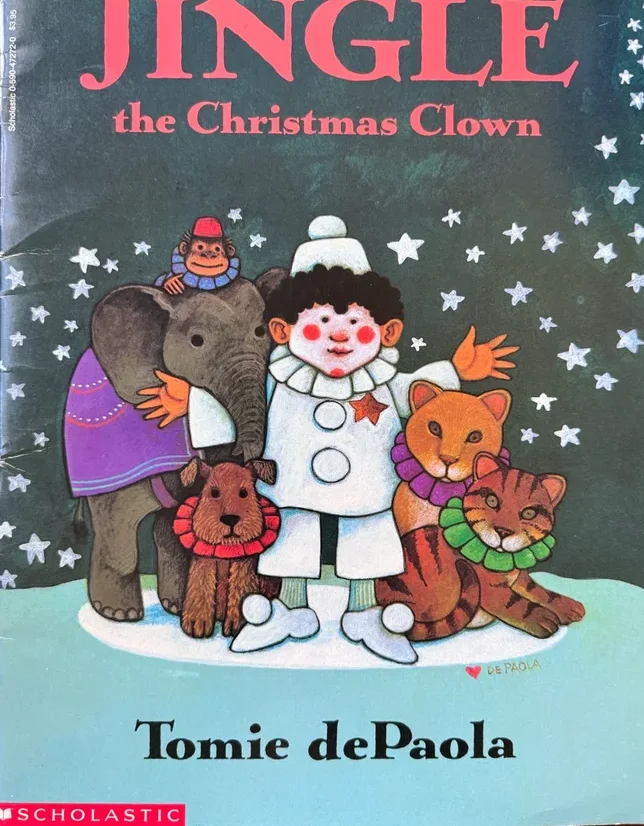
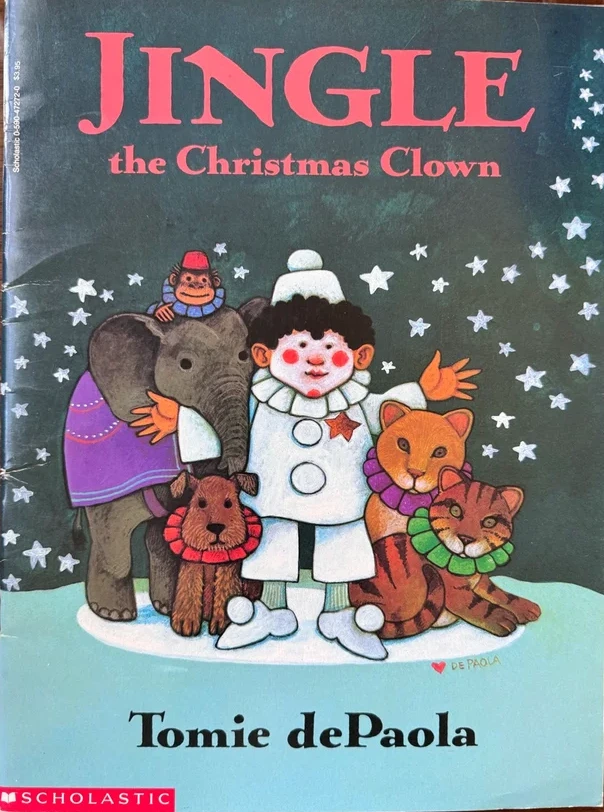
fix(covers): Uncrop 6 covers, level Jolly Old Santa, restore Annual Vol 41, and pair Santa Mouse books

diff --git a/src/App.jsx b/src/App.jsx
@@ -66,7 +66,7 @@ const INITIAL_BOOKS = [
     title: 'The Night Before Christmas', 
     author: 'Clement C. Moore', 
     category: 'story',
-    cover: '/covers/the-night-before-christmas.webp?v=5',
+    cover: '/covers/the-night-before-christmas.webp?v=7',
     notes: 'Illustrations by Tom Browning • Read every Christmas Eve',
     pages: [] 
   },
@@ -75,7 +75,7 @@ const INITIAL_BOOKS = [
     title: 'Chickadees In December', 
     author: 'Bill O. Smith', 
     category: 'story',
-    cover: '/covers/chickadees-in-december.webp?v=5',
+    cover: '/covers/chickadees-in-december.webp?v=7',
     notes: 'Illustrated by Charles R. Murphy • Heartwarming winter story',
     pages: [] 
   },
@@ -102,7 +102,7 @@ const INITIAL_BOOKS = [
     title: 'The Very First Christmas', 
     author: "The Beginner's Bible", 
     category: 'story',
-    cover: '/covers/the-very-first-christmas.webp?v=5',
+    cover: '/covers/the-very-first-christmas.webp?v=7',
     notes: 'The Nativity story for young readers • Baby Jesus born in Bethlehem',
     pages: [] 
   },
@@ -320,7 +320,7 @@ const INITIAL_BOOKS = [
     title: 'Christmas in the Manger',
     author: 'Nola Buck',
     category: 'story',
-    cover: '/covers/christmas-in-the-manger.webp?v=5',
+    cover: '/covers/christmas-in-the-manger.webp?v=7',
     notes: 'Illustrated by Felicia Bond • Gentle Nativity board book for little hands',
     pages: []
   },
@@ -543,12 +543,22 @@ const INITIAL_BOOKS = [
     pages: []
   },
   {
+    id: 'santa_mouse',
+    title: 'Santa Mouse',
+    author: 'Michael Brown',
+    category: 'story',
+    isMouseBook: true,
+    cover: '/covers/santa-mouse.webp?v=7',
+    notes: 'We have 2 copies of this book in our holiday collection! • Illustrated by Elfrieda De Witt',
+    pages: []
+  },
+  {
     id: 'santa_mouse_where_are_you',
     title: 'Santa Mouse, Where Are You?',
     author: 'Michael Brown',
     category: 'story',
     isMouseBook: true,
-    cover: '/covers/santa-mouse-where-are-you.webp?v=5',
+    cover: '/covers/santa-mouse-where-are-you.webp?v=7',
     notes: 'Illustrated by Elfrieda De Witt • Beloved sequel to Santa Mouse',
     pages: []
   },
@@ -570,16 +580,6 @@ const INITIAL_BOOKS = [
     isMouseBook: true,
     cover: '/covers/the-mice-before-christmas.webp?v=5',
     notes: 'Illustrated by Wendy Edelson • Miniature woodland mice prepare for St. Nicholas',
-    pages: []
-  },
-  {
-    id: 'santa_mouse',
-    title: 'Santa Mouse',
-    author: 'Michael Brown',
-    category: 'story',
-    isMouseBook: true,
-    cover: '/covers/santa-mouse.webp?v=5',
-    notes: 'We have 2 copies of this book in our holiday collection! • Illustrated by Elfrieda De Witt',
     pages: []
   },
   {
@@ -876,7 +876,7 @@ const INITIAL_BOOKS = [
     category: 'story',
     isMagazine: true,
     badge: 'Vintage Holiday Magazine',
-    cover: '/covers/jolly-old-santa-claus-ideals.webp?v=5',
+    cover: '/covers/jolly-old-santa-claus-ideals.webp?v=7',
     notes: 'Vintage Holiday Magazine • Ideals Publishing ($2.50 Issue) • Illustrated holiday poetry, stories, and nostalgia',
     pages: []
   },
@@ -940,7 +940,7 @@ const INITIAL_BOOKS = [
     title: 'Jingle, the Christmas Clown',
     author: 'Tomie dePaola',
     category: 'story',
-    cover: '/covers/jingle-the-christmas-clown.webp?v=5',
+    cover: '/covers/jingle-the-christmas-clown.webp?v=7',
     notes: 'Written and illustrated by Tomie dePaola • A tiny Italian circus brings joy on Christmas Eve',
     pages: []
   },
@@ -1060,7 +1060,7 @@ const INITIAL_BOOKS = [
     category: 'story',
     isMagazine: true,
     badge: 'Vintage Holiday Magazine',
-    cover: '/covers/christmas-annual-vol-41.webp?v=5',
+    cover: '/covers/christmas-annual-vol-41.webp?v=7',
     notes: 'Vintage Holiday Magazine • Volume Forty-One (1971) • Edited by Randolph E. Haugan • Augsburg Publishing House, Minneapolis',
     pages: [
       { id: 'annual_41_title', pageNumber: 1, image: '/covers/christmas-annual-vol-41-title.webp?v=5' }
@@ -1213,8 +1213,9 @@ export default function App() {
   const LEGACY_PLACEHOLDERS = new Set(['2','3','4','5','6','7','8','9','10','11','12','13','14','album_2024','album_2023']);
 
   const upgradeBuiltInBooks = (list) => {
+    const initOrderMap = new Map(INITIAL_BOOKS.map((b, idx) => [b.id, idx]));
     const initMap = new Map(INITIAL_BOOKS.map((b) => [b.id, b]));
-    return list.map((b) => {
+    const upgraded = list.map((b) => {
       const fresh = initMap.get(b.id);
       if (!fresh) return b;
       const shouldUseFreshCover = !b.cover || b.cover.startsWith('/covers/');
@@ -1232,6 +1233,13 @@ export default function App() {
         pages: b.pages && b.pages.length > 0 ? b.pages : fresh.pages,
       };
     });
+
+    // Ensure built-in books follow canonical INITIAL_BOOKS order (e.g. Santa Mouse & sequel together)
+    return upgraded.sort((a, b) => {
+      const aIdx = initOrderMap.has(a.id) ? initOrderMap.get(a.id) : 9999;
+      const bIdx = initOrderMap.has(b.id) ? initOrderMap.get(b.id) : 9999;
+      return aIdx - bIdx;
+    });
   };
 
   const [books, setBooks] = useState(() => {
@@ -1242,7 +1250,13 @@ export default function App() {
         const cleaned = upgradeBuiltInBooks(parsed.filter(b => !LEGACY_PLACEHOLDERS.has(String(b.id))));
         const existingIds = new Set(cleaned.map((b) => b.id));
         const missing = INITIAL_BOOKS.filter((b) => !existingIds.has(b.id));
-        return [...cleaned, ...missing];
+        const combined = [...cleaned, ...missing];
+        const initOrderMap = new Map(INITIAL_BOOKS.map((b, idx) => [b.id, idx]));
+        return combined.sort((a, b) => {
+          const aIdx = initOrderMap.has(a.id) ? initOrderMap.get(a.id) : 9999;
+          const bIdx = initOrderMap.has(b.id) ? initOrderMap.get(b.id) : 9999;
+          return aIdx - bIdx;
+        });
       }
     } catch (e) {}
     return INITIAL_BOOKS;
